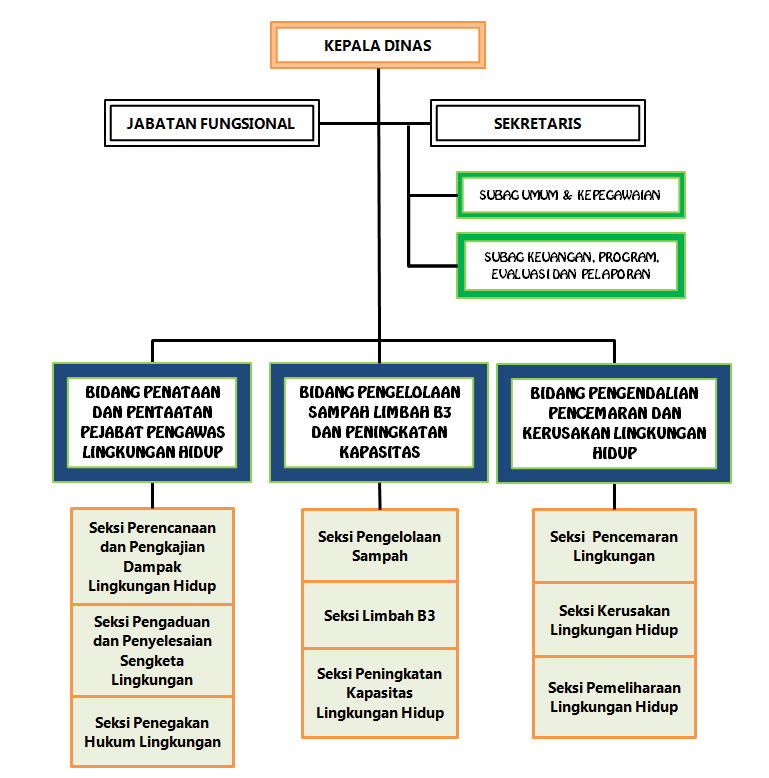
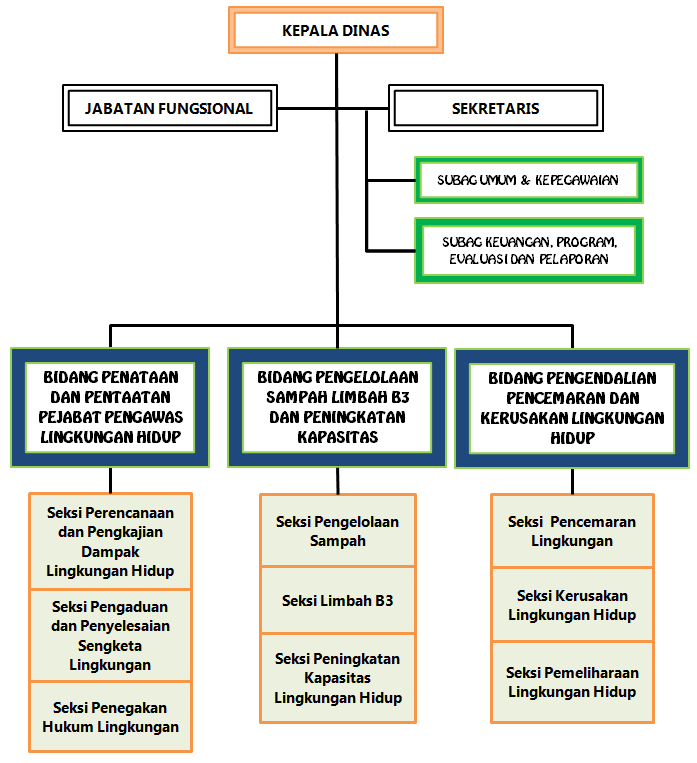
all new

diff --git a/resources/views/pelayanan/amdal.blade.php b/resources/views/pelayanan/amdal.blade.php
@@ -24,8 +24,8 @@
                 </td>
                 </tr>
                 <tr>
-                    <td>
-                        <img src="image-resources/dlh/syaratamdal.png" style="width:100%; height:450px">
+                    <td align="center">
+                        <img src="image-resources/dlh/syaratamdal.png" style="width:80%; height:70%">
                     </td>
                 </tr>
 
@@ -36,7 +36,7 @@
                 </tr>
                 <tr>
                     <td>
-                        <img src="image-resources/dlh/amdal.png" style="width:100%; height:450px">
+                        <img src="image-resources/dlh/amdal.png" style="width:100%; height:50%">
                     </td>
                 </tr>
 

diff --git a/resources/views/pelayanan/sppl.blade.php b/resources/views/pelayanan/sppl.blade.php
@@ -25,7 +25,7 @@
                 </tr>
                 <tr>
                     <td>
-                        <img src="image-resources/dlh/syaratsppl.png" style="width:100%; height:450px">
+                        <img src="image-resources/dlh/syaratsppl.png" style="width:100%; height:50%">
                     </td>
                 </tr>
 
@@ -36,7 +36,7 @@
                 </tr>
                 <tr>
                     <td>
-                        <img src="image-resources/dlh/sppl.png" style="width:100%; height:450px">
+                        <img src="image-resources/dlh/sppl.png" style="width:100%; height:50%">
                     </td>
                 </tr>
 

diff --git a/resources/views/pelayanan/uklupl.blade.php b/resources/views/pelayanan/uklupl.blade.php
@@ -27,7 +27,7 @@
             </tr>
             <tr>
                 <td>
-                    <img src="image-resources/dlh/syaratuklupl.png" style="width:100%; height:450px">
+                    <img src="image-resources/dlh/syaratuklupl.png" style="width:100%; height:50%">
                 </td>
             </tr>
 
@@ -38,7 +38,7 @@
             </tr>
             <tr>
                 <td>
-                    <img src="image-resources/dlh/uklupl.png" style="width:100%; height:450px">
+                    <img src="image-resources/dlh/uklupl.png" style="width:100%; height:50%">
                 </td>
             </tr>
 
